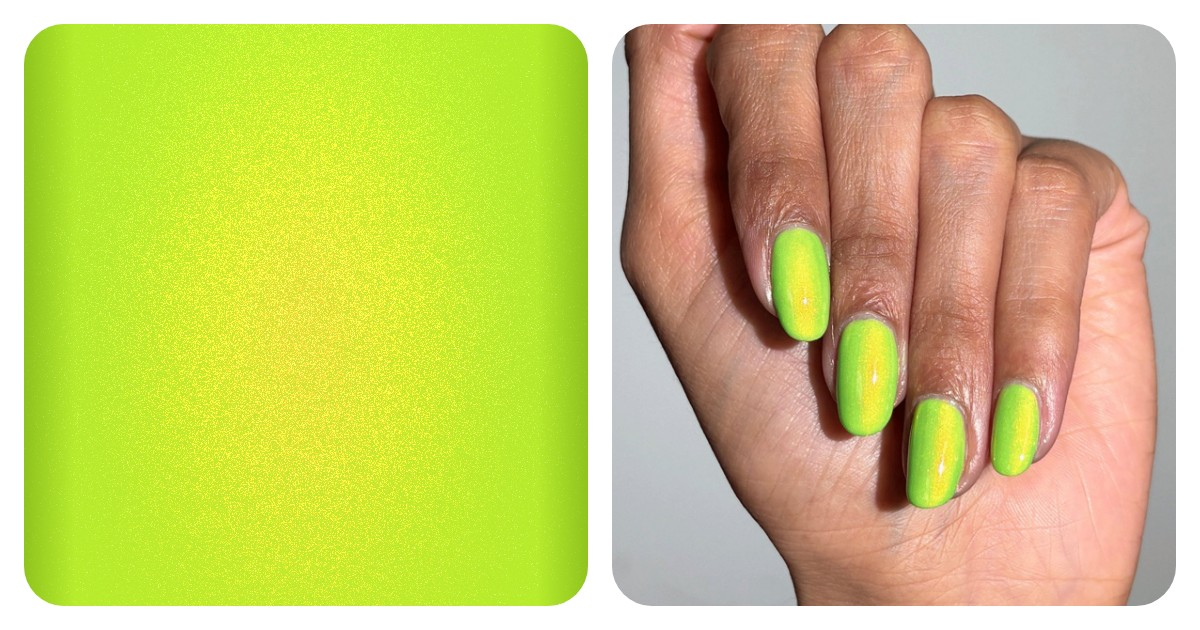
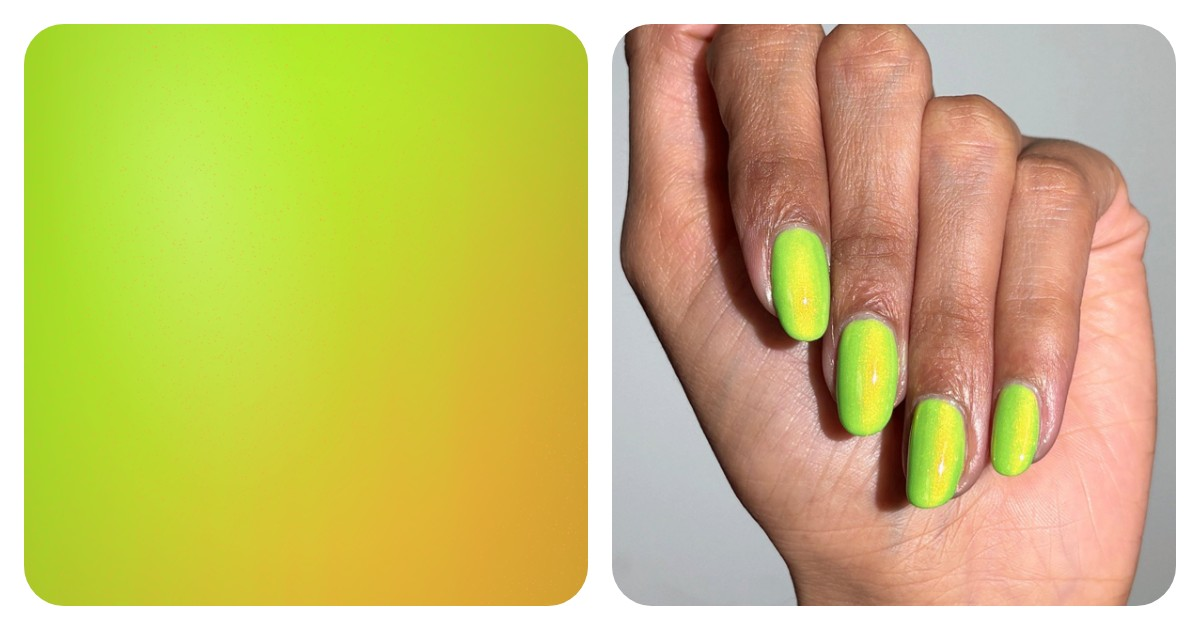
Group new magnetics with Mooncat's and show Manchineel Tree as solar
Awesome Nail Polish and Cracked Polish magnetics now follow the Mooncat
magnetics, since they look alike. Manchineel Tree is drawn like the
thermals (green indoors, warming to orange in sunlight), sits next to
them, and gets a new Solar effect pill.

Claude-Session: https://claude.ai/code/session_01S2TzcL9C4b85zGLFVUsJZn

Changed region(s): [[0.0, 0.0302, 0.4933, 0.9651], [0.0, 0.8143, 0.0308, 0.8444], [0.0, 0.754, 0.0308, 0.7841]]

diff --git a/js/polishes.js b/js/polishes.js
@@ -5,7 +5,7 @@
     id: "unique-id",           // any short unique text; saved combos refer to it
     name: "Name of polish",
     brand: "Brand name",
-    effect: "magnetic",        // how the swatch is drawn: magnetic, sheermag (sheer magnetic), holo, thermal, multichrome, shimmer, glow, powder (chrome powder)
+    effect: "magnetic",        // how the swatch is drawn: magnetic, sheermag (sheer magnetic), holo, thermal (also for solar), multichrome, shimmer, glow, powder (chrome powder)
     effects: ["magnetic", "shimmer"], // optional: effect pills on the card and filters it shows up under (adds multichrome)
     tone: "bold",              // "bold" or "neutral", by taste: bolder, multi-color or darker tones are bold
     colors: ["#1b1030", "#b89cff"],
@@ -39,9 +39,9 @@
              deep is the share suspended deeper inside a sheer polish, drawn softer and dimmer (default 0)
     grain    optional, magnetic: strength of the fine light/dark speckle in the body (default .06)
 */
-// Shelf order (the shelf shows polishes in this order): Mooncat magnetics, Bee's Knees magnetics, bold
-// Mooncat shimmers, holographic, thermals and neutral shimmers, cremes, sheers, glow in the dark, ILNP magnetics,
-// Awesome Nail Polish (ANLAC) magnetics, Cracked Polish magnetics, then chrome powders.
+// Shelf order (the shelf shows polishes in this order): Mooncat, Awesome Nail Polish (ANLAC) and Cracked Polish
+// magnetics (kept together since they look alike), Bee's Knees magnetics, bold Mooncat shimmers, holographic,
+// thermals and solars, neutral shimmers, cremes, sheers, glow in the dark, ILNP magnetics, then chrome powders.
 const POLISHES = [
   {
     id: "mooncat-404-soul-not-found",
@@ -129,6 +129,141 @@ const POLISHES = [
     grad: [.6, .6],            // hotter orange in the middle, pink to violet toward the edges
     url: "https://www.mooncat.com/products/nyarrian-nights",
     photos: ["images/mooncat-nyarrian-nights/1.jpg", "images/mooncat-nyarrian-nights/2.jpg", "images/mooncat-nyarrian-nights/3.jpg", "images/mooncat-nyarrian-nights/4.jpg"], // saved from the product page
+  },
+  {
+    id: "anp-great-purple-emperor",
+    name: "Great Purple Emperor",
+    brand: "Awesome Nail Polish",
+    effect: "magnetic",
+    effects: ["magnetic", "multichrome"],
+    tone: "bold",
+    // ANLAC butterfly collection: purple base with fine red-orange-green magnetic shimmer (from the product page and photos)
+    colors: ["#3a167a", "#d49aff", "#b066f0", "#d86a8a", "#c89a50", "#7ab860"], // purple flash with warm and green edges
+    shadow: "#160830",
+    url: "https://awesomenailpolish.com/products/great-purple-emperor",
+    photos: ["images/anp-great-purple-emperor/1.jpg", "images/anp-great-purple-emperor/2.jpg", "images/anp-great-purple-emperor/3.jpg", "images/anp-great-purple-emperor/4.jpg"], // saved from the product page
+  },
+  {
+    id: "anp-sapphire-morpho",
+    name: "Sapphire Morpho",
+    brand: "Awesome Nail Polish",
+    effect: "magnetic",
+    tone: "bold",
+    // ANLAC butterfly collection: blue base with fine blue-purple magnetic shimmer (from the product page and order photo)
+    colors: ["#0e2a78", "#7ab8ff", "#4a7cf0", "#5a50d8"],
+    shadow: "#06143e",
+    url: "https://awesomenailpolish.com/products/sapphire-morpho",
+    photos: ["images/anp-sapphire-morpho/1.jpg", "images/anp-sapphire-morpho/2.jpg", "images/anp-sapphire-morpho/3.jpg", "images/anp-sapphire-morpho/4.jpg"], // saved from the product page
+  },
+  {
+    id: "anp-balinese-swallowtail",
+    name: "Balinese Swallowtail",
+    brand: "Awesome Nail Polish",
+    effect: "magnetic",
+    effects: ["magnetic", "multichrome"],
+    tone: "bold",
+    // ANLAC butterfly collection: purple base with fine lime-green to blue magnetic shimmer (from the product page and order photo)
+    colors: ["#4a1c6c", "#c8f05a", "#7ee08a", "#4ab4d8", "#4a6ad0"],
+    shadow: "#260c3c",
+    url: "https://awesomenailpolish.com/products/balinese-swallowtail",
+    photos: ["images/anp-balinese-swallowtail/1.jpg", "images/anp-balinese-swallowtail/2.jpg", "images/anp-balinese-swallowtail/3.jpg", "images/anp-balinese-swallowtail/4.jpg"], // saved from the product page
+  },
+  {
+    id: "anp-yotsuya-kaidan",
+    name: "Yotsuya Kaidan",
+    brand: "Awesome Nail Polish",
+    effect: "sheermag",
+    effects: ["sheer", "magnetic"],
+    tone: "bold",
+    // Semi-sheer lime with pink, orange and gold micro flakes and a silver magnetic shimmer that reads green over the lime (from the product page and order photo)
+    colors: ["#b4c048", "#f2ffd0", "#d8f0a0", "#c4d878"],
+    shadow: "#7a8a28",
+    flakes: ["#ff9ac0", "#ffb060", "#f2d060"],
+    sparkle: { density: 3, floor: .3, size: 1.1, colors: ["#ffffff", "#ff9ac0", "#ffb060", "#f2d060"], mix: .7 },
+    url: "https://awesomenailpolish.com/products/yotsuya-kaidan",
+    photos: ["images/anp-yotsuya-kaidan/1.jpg", "images/anp-yotsuya-kaidan/2.jpg", "images/anp-yotsuya-kaidan/3.jpg", "images/anp-yotsuya-kaidan/4.jpg"], // saved from the product page
+  },
+  {
+    id: "anp-peachy",
+    name: "Peachy",
+    brand: "Awesome Nail Polish",
+    effect: "sheermag",
+    effects: ["sheer", "magnetic"],
+    tone: "neutral",
+    // Sheer peach with orange, gold and green shimmer and a pale yellow magnetic flash (from the product page and order photo)
+    colors: ["#e8b4a0", "#fff4c0", "#f8e0a0", "#f0c890"],
+    shadow: "#c08c7c",
+    sparkle: { density: 2.5, floor: .3, colors: ["#ffffff", "#ffb060", "#f2d060", "#a8e080"], mix: .7 },
+    url: "https://awesomenailpolish.com/products/peachy",
+    photos: ["images/anp-peachy/1.jpg", "images/anp-peachy/2.jpg", "images/anp-peachy/3.jpg", "images/anp-peachy/4.jpg"], // saved from the product page
+  },
+  {
+    id: "anp-cranberry-iced-tea",
+    name: "Cranberry Iced Tea",
+    brand: "Awesome Nail Polish",
+    effect: "sheermag",
+    effects: ["sheer", "magnetic"],
+    tone: "bold",
+    // Semi-sheer berry pink with a golden magnetic shimmer (from the product page and order photo)
+    colors: ["#b8204a", "#ffd870", "#f4a850", "#e07048"],
+    shadow: "#6e0c28",
+    url: "https://awesomenailpolish.com/products/cranberry-iced-tea",
+    photos: ["images/anp-cranberry-iced-tea/1.jpg", "images/anp-cranberry-iced-tea/2.jpg", "images/anp-cranberry-iced-tea/3.jpg", "images/anp-cranberry-iced-tea/4.jpg"], // saved from the product page
+  },
+  {
+    id: "anp-fuyu",
+    name: "Fuyu",
+    brand: "Awesome Nail Polish",
+    effect: "sheermag",
+    effects: ["sheer", "magnetic"],
+    tone: "neutral",
+    // "Winter": pale pink with a silky blue-purple magnetic shimmer (from the product page and order photo)
+    colors: ["#e2c4d0", "#d4d0ff", "#b4b0f4", "#c8b4e8"],
+    shadow: "#b498b0",
+    url: "https://awesomenailpolish.com/products/fuyu",
+    photos: ["images/anp-fuyu/1.jpg", "images/anp-fuyu/2.jpg", "images/anp-fuyu/3.jpg", "images/anp-fuyu/4.jpg"], // saved from the product page
+  },
+  {
+    id: "cracked-lahar",
+    name: "Lahar",
+    brand: "Cracked Polish",
+    effect: "magnetic",
+    effects: ["magnetic", "shimmer"],
+    tone: "bold",
+    // Ash grey with a hint of purple and a copper-to-gold magnetic shift (from the product page and order photo)
+    colors: ["#4a4450", "#f4c870", "#e0a050", "#c07040", "#8a5a6a"],
+    shadow: "#26222c",
+    url: "https://crackedpolish.com/products/lahar",
+    photos: ["images/cracked-lahar/1.jpg", "images/cracked-lahar/2.jpg", "images/cracked-lahar/3.jpg", "images/cracked-lahar/4.jpg"], // saved from the product page
+  },
+  {
+    id: "cracked-scorchy",
+    name: "Scorchy",
+    brand: "Cracked Polish",
+    effect: "sheermag",
+    effects: ["sheer", "magnetic"],
+    tone: "bold",
+    clear: true,               // a magnetic topper: layered over another polish, mostly its flash shows
+    // Fiery orange magnetic topper with a soft gold shift and flickers of black speckle (from the product page and order photo)
+    colors: ["#3a2418", "#ffc060", "#ff8a2a", "#e05a1a"],
+    shadow: "#1a0e08",
+    sparkle: { density: 1.5, dark: .3 },
+    url: "https://crackedpolish.com/products/scorchy",
+    photos: ["images/cracked-scorchy/1.jpg", "images/cracked-scorchy/2.jpg", "images/cracked-scorchy/3.jpg", "images/cracked-scorchy/4.jpg"], // saved from the product page
+  },
+  {
+    id: "cracked-hibernaty",
+    name: "Hibernaty",
+    brand: "Cracked Polish",
+    effect: "sheermag",
+    effects: ["sheer", "magnetic"],
+    tone: "bold",
+    clear: true,               // a magnetic topper: layered over another polish, mostly its flash shows
+    // Bronze magnetic topper; reviewers describe a warm pinky rose-gold shift (from the product page and order photo)
+    colors: ["#3a2a24", "#f4c09a", "#d48a6a", "#b0604a"],
+    shadow: "#1c120e",
+    url: "https://crackedpolish.com/products/hibernaty",
+    photos: ["images/cracked-hibernaty/1.jpg", "images/cracked-hibernaty/2.jpg", "images/cracked-hibernaty/3.jpg", "images/cracked-hibernaty/4.jpg"], // saved from the product page
   },
   {
     id: "beesknees-knight-knave-optimist",
@@ -310,21 +445,6 @@ const POLISHES = [
     photos: ["images/mooncat-bottled-rage/1.jpg", "images/mooncat-bottled-rage/2.jpg", "images/mooncat-bottled-rage/3.jpg", "images/mooncat-bottled-rage/4.jpg"], // saved from the product page
   },
   {
-    id: "mooncat-manchineel-tree",
-    name: "Manchineel Tree",
-    brand: "Mooncat",
-    effect: "shimmer",
-    effects: ["shimmer"],
-    tone: "bold",
-    // Solar (sun-activated) neon green with orange shimmer that warms up in sunlight (from the product page and order photo)
-    baseColor: "#b8f02c",
-    colors: ["#f8a040", "#e8d030", "#c8f040", "#9ae028"], // shimmer colors [facing, ..., sides]
-    shadow: "#6a9c10",
-    chrome: { grain: 1.2, cover: .7, sheen: 1.2 },
-    url: "https://www.mooncat.com/products/manchineel-tree",
-    photos: ["images/mooncat-manchineel-tree/1.jpg", "images/mooncat-manchineel-tree/2.jpg", "images/mooncat-manchineel-tree/3.jpg", "images/mooncat-manchineel-tree/4.jpg"], // saved from the product page
-  },
-  {
     id: "mooncat-banished-prince",
     name: "Banished Prince",
     brand: "Mooncat",
@@ -420,6 +540,20 @@ const POLISHES = [
     shimmer: "#ffc4d8",
     url: "https://www.mooncat.com/products/koi-whiskers",
     photos: ["images/mooncat-koi-whiskers/1.jpg", "images/mooncat-koi-whiskers/2.jpg", "images/mooncat-koi-whiskers/3.jpg", "images/mooncat-koi-whiskers/4.jpg"], // saved from the product page
+  },
+  {
+    id: "mooncat-manchineel-tree",
+    name: "Manchineel Tree",
+    brand: "Mooncat",
+    effect: "thermal",         // drawn like the thermals: it shifts color the same way, but with sunlight instead of heat
+    effects: ["solar", "shimmer"],
+    tone: "bold",
+    // Solar (UV-activated): neon green indoors, warming toward orange in sunlight, with orange shimmer (from the product page and photos)
+    colors: ["#b4ee2a", "#f2a83a"], // [indoors, in sunlight]
+    thermal: { rest: .3 },     // mostly green at rest, like it looks indoors
+    shimmer: "#ffa64a",
+    url: "https://www.mooncat.com/products/manchineel-tree",
+    photos: ["images/mooncat-manchineel-tree/1.jpg", "images/mooncat-manchineel-tree/2.jpg", "images/mooncat-manchineel-tree/3.jpg", "images/mooncat-manchineel-tree/4.jpg"], // saved from the product page
   },
   {
     id: "mooncat-memento-mori",
@@ -630,141 +764,6 @@ const POLISHES = [
     sparkle: { density: 6, floor: .35, deep: .35, size: 1.4, dark: .1, colors: ["#ffffff", "#ffffff", "#ffffff", "#f2f2f6", "#ff9fd0", "#8fd0ff", "#b4ff9c"], mix: .8 },
     url: "https://www.ilnp.com/bubbly-silver-magnetic-topper-nail-polish/",
     photos: ["images/ilnp-bubbly/1.jpg", "images/ilnp-bubbly/2.jpg", "images/ilnp-bubbly/3.jpg", "images/ilnp-bubbly/4.jpg"], // saved from the product page
-  },
-  {
-    id: "anp-great-purple-emperor",
-    name: "Great Purple Emperor",
-    brand: "Awesome Nail Polish",
-    effect: "magnetic",
-    effects: ["magnetic", "multichrome"],
-    tone: "bold",
-    // ANLAC butterfly collection: purple base with fine red-orange-green magnetic shimmer (from the product page and photos)
-    colors: ["#3a167a", "#d49aff", "#b066f0", "#d86a8a", "#c89a50", "#7ab860"], // purple flash with warm and green edges
-    shadow: "#160830",
-    url: "https://awesomenailpolish.com/products/great-purple-emperor",
-    photos: ["images/anp-great-purple-emperor/1.jpg", "images/anp-great-purple-emperor/2.jpg", "images/anp-great-purple-emperor/3.jpg", "images/anp-great-purple-emperor/4.jpg"], // saved from the product page
-  },
-  {
-    id: "anp-sapphire-morpho",
-    name: "Sapphire Morpho",
-    brand: "Awesome Nail Polish",
-    effect: "magnetic",
-    tone: "bold",
-    // ANLAC butterfly collection: blue base with fine blue-purple magnetic shimmer (from the product page and order photo)
-    colors: ["#0e2a78", "#7ab8ff", "#4a7cf0", "#5a50d8"],
-    shadow: "#06143e",
-    url: "https://awesomenailpolish.com/products/sapphire-morpho",
-    photos: ["images/anp-sapphire-morpho/1.jpg", "images/anp-sapphire-morpho/2.jpg", "images/anp-sapphire-morpho/3.jpg", "images/anp-sapphire-morpho/4.jpg"], // saved from the product page
-  },
-  {
-    id: "anp-balinese-swallowtail",
-    name: "Balinese Swallowtail",
-    brand: "Awesome Nail Polish",
-    effect: "magnetic",
-    effects: ["magnetic", "multichrome"],
-    tone: "bold",
-    // ANLAC butterfly collection: purple base with fine lime-green to blue magnetic shimmer (from the product page and order photo)
-    colors: ["#4a1c6c", "#c8f05a", "#7ee08a", "#4ab4d8", "#4a6ad0"],
-    shadow: "#260c3c",
-    url: "https://awesomenailpolish.com/products/balinese-swallowtail",
-    photos: ["images/anp-balinese-swallowtail/1.jpg", "images/anp-balinese-swallowtail/2.jpg", "images/anp-balinese-swallowtail/3.jpg", "images/anp-balinese-swallowtail/4.jpg"], // saved from the product page
-  },
-  {
-    id: "anp-yotsuya-kaidan",
-    name: "Yotsuya Kaidan",
-    brand: "Awesome Nail Polish",
-    effect: "sheermag",
-    effects: ["sheer", "magnetic"],
-    tone: "bold",
-    // Semi-sheer lime with pink, orange and gold micro flakes and a silver magnetic shimmer that reads green over the lime (from the product page and order photo)
-    colors: ["#b4c048", "#f2ffd0", "#d8f0a0", "#c4d878"],
-    shadow: "#7a8a28",
-    flakes: ["#ff9ac0", "#ffb060", "#f2d060"],
-    sparkle: { density: 3, floor: .3, size: 1.1, colors: ["#ffffff", "#ff9ac0", "#ffb060", "#f2d060"], mix: .7 },
-    url: "https://awesomenailpolish.com/products/yotsuya-kaidan",
-    photos: ["images/anp-yotsuya-kaidan/1.jpg", "images/anp-yotsuya-kaidan/2.jpg", "images/anp-yotsuya-kaidan/3.jpg", "images/anp-yotsuya-kaidan/4.jpg"], // saved from the product page
-  },
-  {
-    id: "anp-peachy",
-    name: "Peachy",
-    brand: "Awesome Nail Polish",
-    effect: "sheermag",
-    effects: ["sheer", "magnetic"],
-    tone: "neutral",
-    // Sheer peach with orange, gold and green shimmer and a pale yellow magnetic flash (from the product page and order photo)
-    colors: ["#e8b4a0", "#fff4c0", "#f8e0a0", "#f0c890"],
-    shadow: "#c08c7c",
-    sparkle: { density: 2.5, floor: .3, colors: ["#ffffff", "#ffb060", "#f2d060", "#a8e080"], mix: .7 },
-    url: "https://awesomenailpolish.com/products/peachy",
-    photos: ["images/anp-peachy/1.jpg", "images/anp-peachy/2.jpg", "images/anp-peachy/3.jpg", "images/anp-peachy/4.jpg"], // saved from the product page
-  },
-  {
-    id: "anp-cranberry-iced-tea",
-    name: "Cranberry Iced Tea",
-    brand: "Awesome Nail Polish",
-    effect: "sheermag",
-    effects: ["sheer", "magnetic"],
-    tone: "bold",
-    // Semi-sheer berry pink with a golden magnetic shimmer (from the product page and order photo)
-    colors: ["#b8204a", "#ffd870", "#f4a850", "#e07048"],
-    shadow: "#6e0c28",
-    url: "https://awesomenailpolish.com/products/cranberry-iced-tea",
-    photos: ["images/anp-cranberry-iced-tea/1.jpg", "images/anp-cranberry-iced-tea/2.jpg", "images/anp-cranberry-iced-tea/3.jpg", "images/anp-cranberry-iced-tea/4.jpg"], // saved from the product page
-  },
-  {
-    id: "anp-fuyu",
-    name: "Fuyu",
-    brand: "Awesome Nail Polish",
-    effect: "sheermag",
-    effects: ["sheer", "magnetic"],
-    tone: "neutral",
-    // "Winter": pale pink with a silky blue-purple magnetic shimmer (from the product page and order photo)
-    colors: ["#e2c4d0", "#d4d0ff", "#b4b0f4", "#c8b4e8"],
-    shadow: "#b498b0",
-    url: "https://awesomenailpolish.com/products/fuyu",
-    photos: ["images/anp-fuyu/1.jpg", "images/anp-fuyu/2.jpg", "images/anp-fuyu/3.jpg", "images/anp-fuyu/4.jpg"], // saved from the product page
-  },
-  {
-    id: "cracked-lahar",
-    name: "Lahar",
-    brand: "Cracked Polish",
-    effect: "magnetic",
-    effects: ["magnetic", "shimmer"],
-    tone: "bold",
-    // Ash grey with a hint of purple and a copper-to-gold magnetic shift (from the product page and order photo)
-    colors: ["#4a4450", "#f4c870", "#e0a050", "#c07040", "#8a5a6a"],
-    shadow: "#26222c",
-    url: "https://crackedpolish.com/products/lahar",
-    photos: ["images/cracked-lahar/1.jpg", "images/cracked-lahar/2.jpg", "images/cracked-lahar/3.jpg", "images/cracked-lahar/4.jpg"], // saved from the product page
-  },
-  {
-    id: "cracked-scorchy",
-    name: "Scorchy",
-    brand: "Cracked Polish",
-    effect: "sheermag",
-    effects: ["sheer", "magnetic"],
-    tone: "bold",
-    clear: true,               // a magnetic topper: layered over another polish, mostly its flash shows
-    // Fiery orange magnetic topper with a soft gold shift and flickers of black speckle (from the product page and order photo)
-    colors: ["#3a2418", "#ffc060", "#ff8a2a", "#e05a1a"],
-    shadow: "#1a0e08",
-    sparkle: { density: 1.5, dark: .3 },
-    url: "https://crackedpolish.com/products/scorchy",
-    photos: ["images/cracked-scorchy/1.jpg", "images/cracked-scorchy/2.jpg", "images/cracked-scorchy/3.jpg", "images/cracked-scorchy/4.jpg"], // saved from the product page
-  },
-  {
-    id: "cracked-hibernaty",
-    name: "Hibernaty",
-    brand: "Cracked Polish",
-    effect: "sheermag",
-    effects: ["sheer", "magnetic"],
-    tone: "bold",
-    clear: true,               // a magnetic topper: layered over another polish, mostly its flash shows
-    // Bronze magnetic topper; reviewers describe a warm pinky rose-gold shift (from the product page and order photo)
-    colors: ["#3a2a24", "#f4c09a", "#d48a6a", "#b0604a"],
-    shadow: "#1c120e",
-    url: "https://crackedpolish.com/products/hibernaty",
-    photos: ["images/cracked-hibernaty/1.jpg", "images/cracked-hibernaty/2.jpg", "images/cracked-hibernaty/3.jpg", "images/cracked-hibernaty/4.jpg"], // saved from the product page
   },
   {
     id: "prettydiva-sunset-chrome-powder",

diff --git a/p/mooncat-manchineel-tree/index.html b/p/mooncat-manchineel-tree/index.html
@@ -5,11 +5,11 @@
   <meta name="viewport" content="width=device-width, initial-scale=1">
   <!-- Generated by scripts/build-previews.js; edit that instead. -->
   <title>Manchineel Tree · Mooncat · Polish shelf</title>
-  <meta name="description" content="Shimmer polish by Mooncat, swatched on Polish shelf.">
+  <meta name="description" content="Solar, Shimmer polish by Mooncat, swatched on Polish shelf.">
   <meta property="og:type" content="website">
   <meta property="og:site_name" content="Polish shelf">
   <meta property="og:title" content="Manchineel Tree · Mooncat">
-  <meta property="og:description" content="Shimmer polish by Mooncat, swatched on Polish shelf.">
+  <meta property="og:description" content="Solar, Shimmer polish by Mooncat, swatched on Polish shelf.">
   <meta property="og:url" content="https://ceciliayang.com/polish-shelf/p/mooncat-manchineel-tree/">
   <meta property="og:image" content="https://ceciliayang.com/polish-shelf/images/og/mooncat-manchineel-tree.jpg">
   <meta property="og:image:type" content="image/jpeg">
@@ -18,7 +18,7 @@
   <meta property="og:image:alt" content="A swatch of Manchineel Tree by Mooncat next to a photo of the polish">
   <meta name="twitter:card" content="summary_large_image">
   <meta name="twitter:title" content="Manchineel Tree · Mooncat">
-  <meta name="twitter:description" content="Shimmer polish by Mooncat, swatched on Polish shelf.">
+  <meta name="twitter:description" content="Solar, Shimmer polish by Mooncat, swatched on Polish shelf.">
   <meta name="twitter:image" content="https://ceciliayang.com/polish-shelf/images/og/mooncat-manchineel-tree.jpg">
   <link rel="canonical" href="https://ceciliayang.com/polish-shelf/p/mooncat-manchineel-tree/">
   <meta http-equiv="refresh" content="0; url=../../?p=mooncat-manchineel-tree">

diff --git a/js/app.js b/js/app.js
@@ -21,6 +21,7 @@ const EFFECTS = {
   duochrome: "Duochrome",
   multichrome: "Multichrome",
   thermal:   "Thermal",
+  solar:     "Solar",
   glow:      "Glow in the dark",
   powder:    "Chrome powder",
 };
